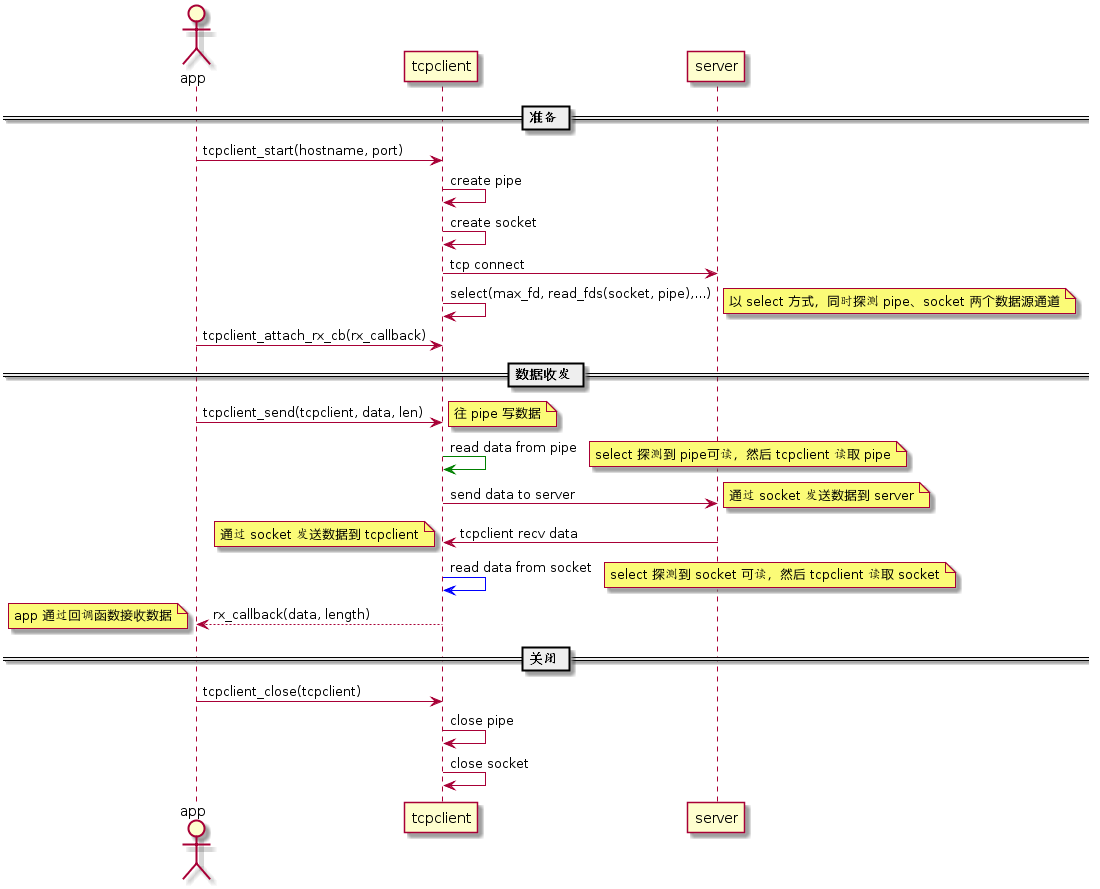
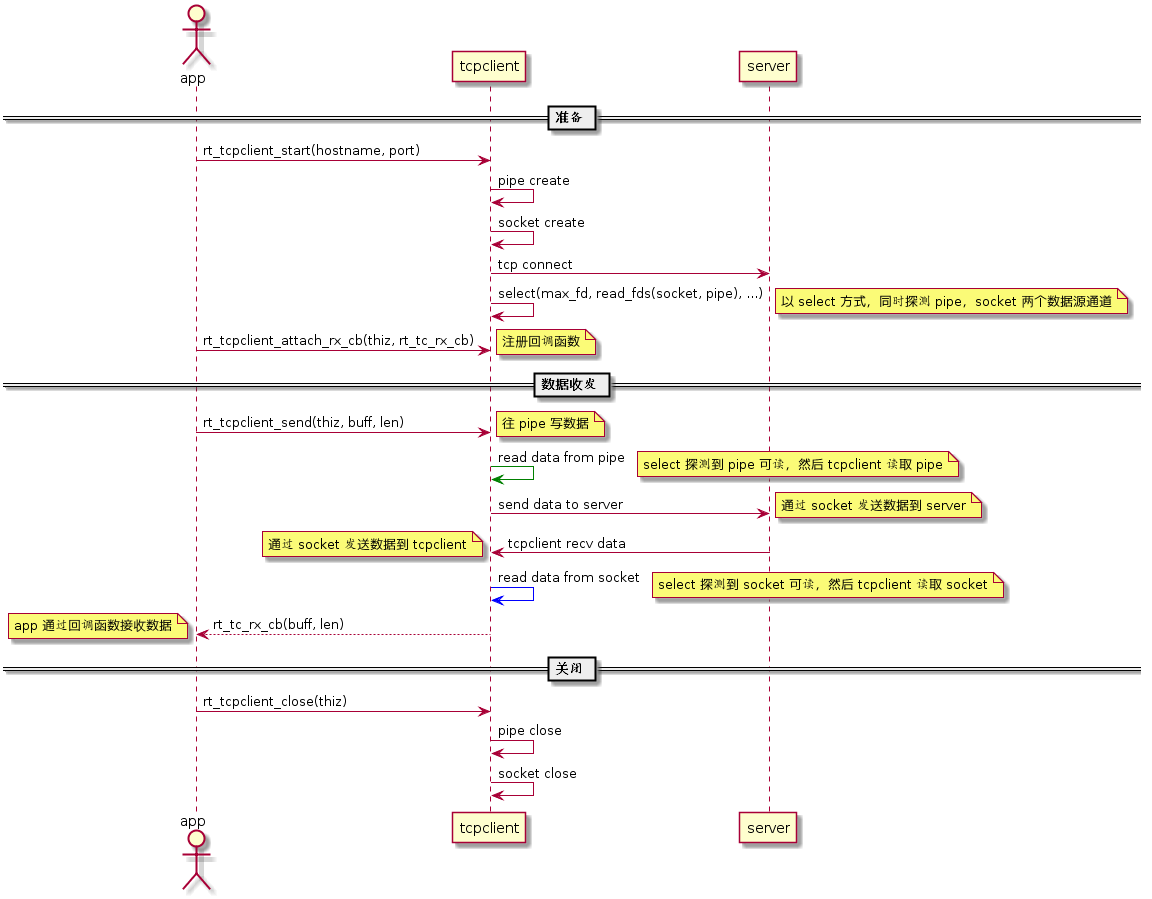
[modify]application note

diff --git a/an0019-rtthread-tcpclient-socket/an0019-rtthread-system-tcpclient-socket.md b/an0019-rtthread-tcpclient-socket/an0019-rtthread-system-tcpclient-socket.md
@@ -121,15 +121,15 @@ msh />
 
 下面来详细说明：
 
-1. 调用 `tcpclient_start()` 设置服务器 ip 地址 & 端口号，以及完成 pipe、socket 初始化和 TCP 连接、select 配置等工作
-2. 注册接收回调函数 `rx_callback()`
-3. 调用 `tcpclient_send()` 通过 pipe 发送数据（*图中绿线表示 select 探测到 pipe 可读事件*）
+1. 调用 `rt_tcpclient_start()` 设置服务器 ip 地址 & 端口号，以及完成 pipe、socket 初始化和 TCP 连接、select 配置等工作
+2. 注册接收回调函数 `rt_tc_rx_cb()`
+3. 调用 `rt_tcpclient_send()` 通过 pipe 发送数据（*图中绿线表示 select 探测到 pipe 可读事件*）
 4. *图中绿线表示 select 探测到 pipe 可读事件*， tcpclient 被唤醒并读取 pipe 的数据
 5. tcpclient 通过 socket 发送数据给 server
 6. server 通过 socket 发送数据给 tcpclient
 7. *图中蓝线表示 select 探测到 socket 可读事件* ，tcpclient 被唤醒并读取 socket 的数据
-8. app 通过 `rx_callback()` 获得 tcpclient 读取到的数据
-9. 通信完毕，app 调用 `tcpclient_close()` 关闭 pipe、socket，并清理相关资源
+8. app 通过 `rt_tc_rx_cb()` 获得 tcpclient 读取到的数据
+9. 通信完毕，app 调用 `rt_tcpclient_close()` 关闭 pipe、socket，并清理相关资源
 
 ### tcpclient 代码实现
 
@@ -246,7 +246,7 @@ QEMU 成功启动，下面来介绍代码运行情况。
 
 ![网络助手设置](figures/an0019_server_1.png)
 
-- 在 env 里输入 `ipconfig` 查看本机 ip 地址，详情如下：
+- 在 cmd 命令行输入 `ipconfig` 查看本机 ip 地址，详情如下：
 
 ```
 > ipconfig
@@ -256,11 +256,11 @@ IPv4 Address. . . . . . . . . . . : 192.168.12.53
 ```
 
 
-- 通过 `rt_tcpclient_start()` API 设置服务器 IP 地址和端口号，详情如下：
-
+- example 代码中通过 `rt_tcpclient_start()` API 设置服务器 IP 地址和端口号，详情如下：
 ```
 rt_tcpclient_start("192.168.12.53", 9008);
 ```
+> 注意：这里需要根据自己的环境设置 ip 地址和端口号!!!
 
 - 在 `msh />` 里，输入 `rt_tc_test_init` 详情如下：
 ```
